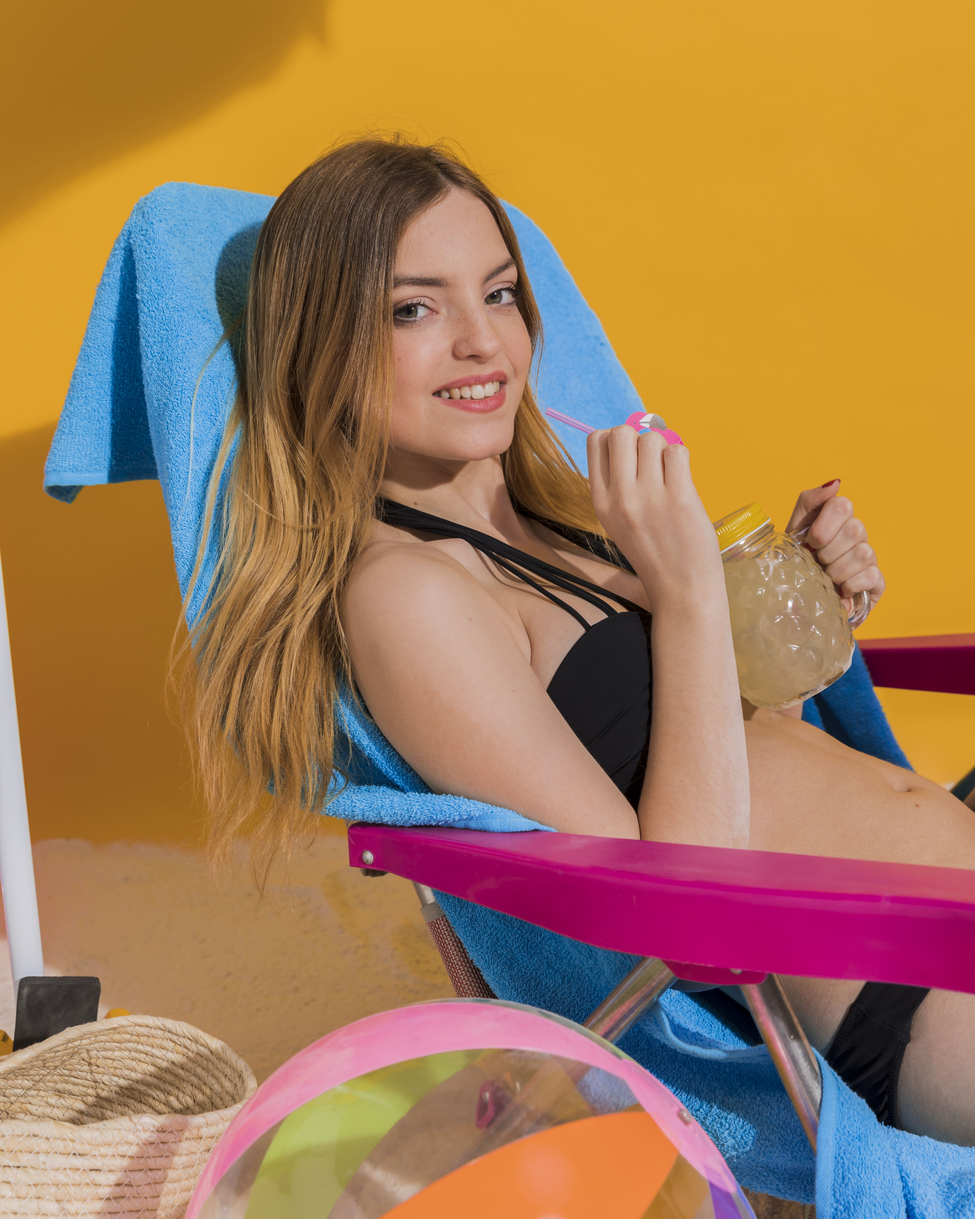
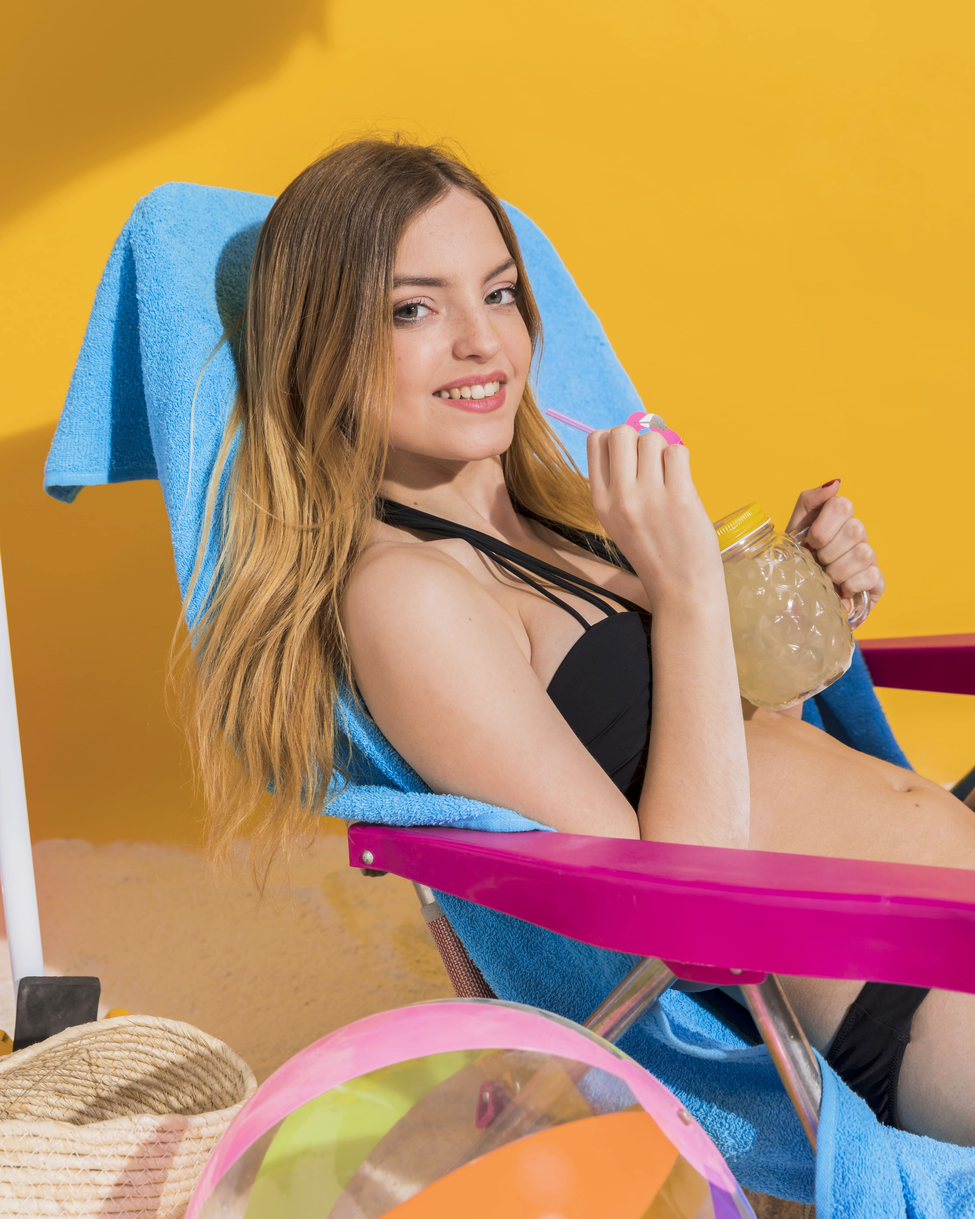
creación de shop.css

diff --git a/css/shop.css b/css/shop.css
@@ -3,5 +3,114 @@
     border: 2px solid rgb(var(--amarillo));
 }
 
+body{
+    background-image: url('../img/woman-with-pineapples-beach.jpg');
+    background-repeat: no-repeat;
+    background-size: 1440px auto;
+    background-position: top;
+    background-attachment: fixed; /* La imagen no se mueve al hacer scroll */
+}
+
+/*PORTADA*/
+.portada{
+    height: 70vh;
+    /* max-height: 700px; */
+    color: #000;
+    text-shadow: rgba(0, 0, 0, 0.5) 1.95px 1.95px 2.6px;
+    text-shadow: rgb(255, 255, 255) 1.95px 1.95px 2.6px;
+    align-items: end;
+    text-align: end;
+}
+.portada h2{
+    font-size: 3em;
+    font-weight: 700;
+}
+.portada p{
+    max-width: 35%;
+    margin: 2em 0;
+    font-weight: 500;
+    /* border: 2px solid blueviolet; */
+    /* text-shadow: rgb(255, 255, 255) 1.95px 1.95px 2.6px; */
+}
+.portada button{
+    background-color: transparent;
+    border-radius: 25px;
+    border: 2px solid #000;
+    font-size: 1em;
+    font-weight: 600;
+    text-transform: uppercase;
+    padding: .5em 2em;
+    text-shadow: rgb(255, 255, 255) 1.95px 1.95px 2.6px;
+    box-shadow: rgb(255, 255, 255) 1.95px 1.95px 2.6px;
+    /* box-shadow: 5px 5px 5px 0px rgb(255, 255, 255); */
+    
+}
+
 
 /*MAIN*/
+main.container{
+    background-color: #fff;
+    flex-wrap: wrap;
+    flex-direction: row !important;
+    justify-items: center;
+    gap: 2em;
+}
+.tienda{
+    flex: 1 1 30%;
+    overflow: hidden;
+}
+.tienda img{
+    /* aspect-ratio: 4/3; */
+    aspect-ratio: 9/16;
+    object-fit: cover;
+    object-position: top;
+    vertical-align: top;
+}
+
+
+
+/* .tienda-contenedor{
+    display: grid;
+    grid-template-columns: repeat(3, 1fr);
+    justify-items: center;
+    justify-content: center;
+    align-items: center;
+} */
+
+
+
+
+
+
+
+
+@media screen and (max-width:950px){
+    body{
+        background-size: 950px auto;
+    }
+    .portada{
+        height: 50vh;
+        align-items: center;
+        text-align: center;
+    }
+    .portada h2{
+        font-size: 2em;
+    }
+    .portada p{
+        max-width: 80%;
+    }
+
+    /* .tienda:nth-child(3), .tienda:nth-child(6), .tienda:nth-child(9){
+        flex: 1 1 100%;
+        aspect-ratio: 3/4;
+    } */
+
+
+}
+
+
+@media screen and (max-width:700px){
+    .tienda{
+        flex: 1 1 30%;
+    }
+}

diff --git a/shop.html b/shop.html
@@ -38,16 +38,27 @@
         </div>
     </header>
 
-    <!--MAIN-->
-    <section class="container">
+    <!--Portada-->
+    <section class="container portada">
         <!-- <h2>Buy your tickets</h2> -->
-        <h2>New summer collection</h2>
+        <h2>New summer</h2>
+        <h2>collection</h2>
         <p>Lorem ipsum dolor sit, amet consectetur adipisicing elit. Explicabo, dicta? Cupiditate necessitatibus totam fugiat veritatis aperiam alias aspernatur nesciunt minus.</p>
         <button class="boton" type="button">Here</button>
     </section>
 
+    <!--MAIN-->
     <main class="container">
-        <div class="tienda">
+        <!-- <div class="tienda-contenedor"> -->
+            <div class="tienda">
+                <img src="img/foto-10.jpg" alt="foto-tienda">
+            </div>
+            <div class="tienda">
+                <img src="img/foto-11.jpg" alt="foto-tienda">
+            </div>
+            <div class="tienda">
+                <img src="img/foto-12.jpg" alt="foto-tienda">
+            </div>
             <div class="tienda">
                 <img src="img/foto-4.jpg" alt="foto-tienda">
             </div>
@@ -66,7 +77,7 @@
             <div class="tienda">
                 <img src="img/foto-9.jpg" alt="foto-tienda">
             </div>
-        </div>
+        <!-- </div> -->
     </main>
     
 
@@ -135,6 +146,7 @@
 
     <!--FOOTER-->
     <footer class="container">
+        <img src="img/palmeras-1.png" alt="imagen-footer" class="palmera-1">
         <div>
             <ul>
                 <li><a href="index.html">Home</a></li>
@@ -151,8 +163,9 @@
                 <li><a class="icono" href="https://www.youtube.com/"><img src="img/youtube.png" alt="icono-youtube"></a></li>
                 <li><a class="icono" href="https://www.tiktok.com/es/"><img src="img/tik-tok.png" alt="icono-tiktok"></a></li>
             </ul>
-            <span>SummerPop ©Company name 2025. All rights reserved.</span>
+            <span>SummerPop ©Company name 2024. All rights reserved.</span>
         </div>
+        <img src="img/palmeras-2.png" alt="imagen-footer" class="palmera-2">
     </footer>
     
 </body>

diff --git a/projects.html b/projects.html
@@ -103,6 +103,7 @@
 
     <!--FOOTER-->
     <footer class="container">
+        <img src="img/palmeras-1.png" alt="imagen-footer" class="palmera-1">
         <div>
             <ul>
                 <li><a href="index.html">Home</a></li>
@@ -121,6 +122,7 @@
             </ul>
             <span>SummerPop ©Company name 2024. All rights reserved.</span>
         </div>
+        <img src="img/palmeras-2.png" alt="imagen-footer" class="palmera-2">
     </footer>
     
 </body>

diff --git a/about.html b/about.html
@@ -95,6 +95,7 @@
 
     <!--FOOTER-->
     <footer class="container">
+        <img src="img/palmeras-1.png" alt="imagen-footer" class="palmera-1">
         <div>
             <ul>
                 <li><a href="index.html">Home</a></li>
@@ -113,6 +114,7 @@
             </ul>
             <span>SummerPop ©Company name 2024. All rights reserved.</span>
         </div>
+        <img src="img/palmeras-2.png" alt="imagen-footer" class="palmera-2">
     </footer>
     
 </body>
